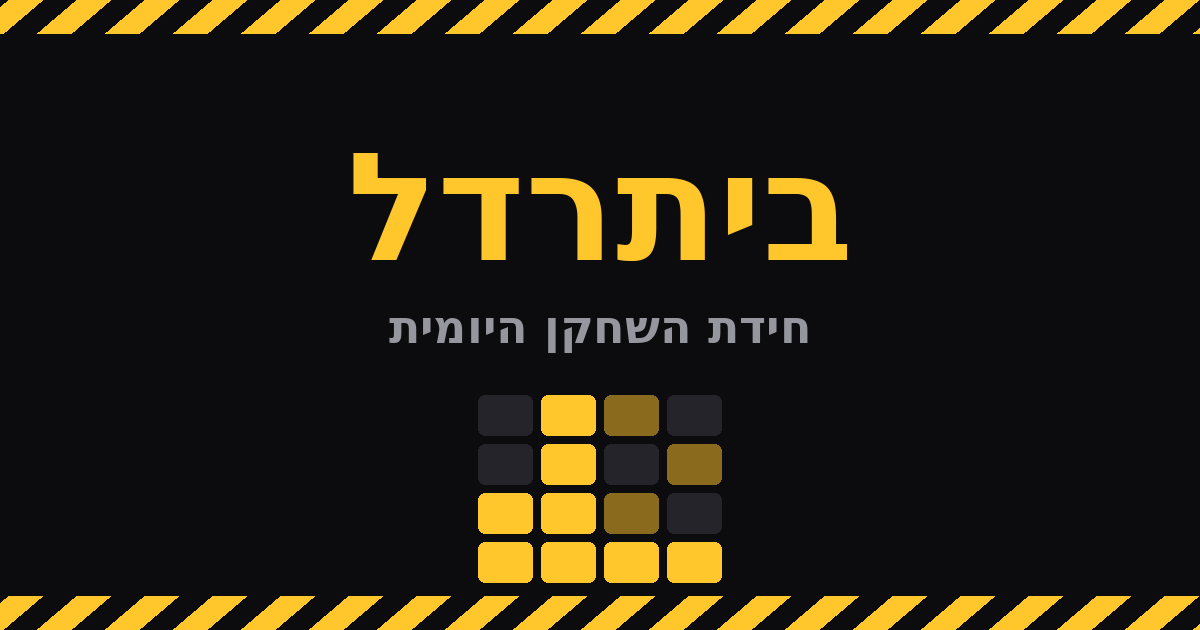
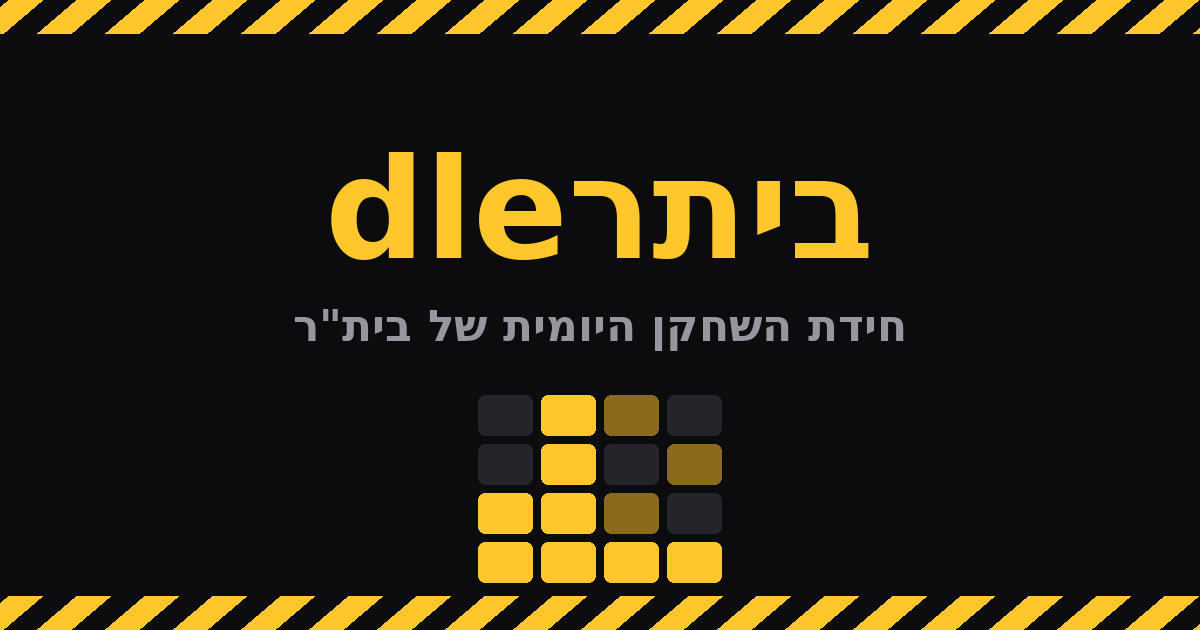
Add files via upload

Changed region(s): [[0.2775, 0.2413, 0.74, 0.4222], [0.2467, 0.4825, 0.7708, 0.573]]

diff --git a/index.html b/index.html
@@ -3,12 +3,12 @@
 <head>
 <meta charset="utf-8">
 <meta name="viewport" content="width=device-width, initial-scale=1, viewport-fit=cover">
-<title>ביתרדל · חידת השחקן היומית</title>
+<title>ביתרdle · חידת השחקן היומית</title>
 <meta name="description" content="שחקן בית&quot;ר אחד מסתורי. שמונה ניסיונות. חידה חדשה כל יום.">
 
 <!-- ===== תצוגה מקדימה בוואטסאפ — החלף את הדומיין ===== -->
 <meta property="og:type"        content="website">
-<meta property="og:title"       content="ביתרדל · חידת השחקן היומית">
+<meta property="og:title"       content="ביתרdle · חידת השחקן היומית">
 <meta property="og:description" content="שחקן בית&quot;ר אחד. שמונה ניסיונות. כמה ייקח לכם?">
 <meta property="og:url"         content="https://beitardle.up.railway.app/">
 <meta property="og:image"       content="https://beitardle.up.railway.app/og-beitardle.png">
@@ -23,7 +23,7 @@
 <link rel="icon" type="image/png" sizes="32x32" href="icon-32.png">
 <link rel="apple-touch-icon" href="icon-180.png">
 <link rel="manifest" href="manifest.json">
-<meta name="apple-mobile-web-app-title" content="ביתרדל">
+<meta name="apple-mobile-web-app-title" content="ביתרdle">
 <meta name="mobile-web-app-capable" content="yes">
 <meta name="apple-mobile-web-app-capable" content="yes">
 <meta name="apple-mobile-web-app-status-bar-style" content="black-translucent">
@@ -75,9 +75,11 @@ body{background:var(--ink);color:var(--text);font-family:'Heebo',system-ui,sans-
 .scarf.bottom{margin-top:32px}
 
 header{padding:20px 0 16px;text-align:center;position:relative}
-h1{font-family:'Suez One',Georgia,serif;font-size:clamp(34px,10vw,46px);line-height:1;margin:0;
+h1{unicode-bidi:isolate;font-family:'Suez One',Georgia,serif;font-size:clamp(34px,10vw,46px);line-height:1;margin:0;
   color:var(--yellow);letter-spacing:-.5px}
-.sub{margin:8px 0 0;font-size:13px;color:var(--dim);font-weight:500}
+.tag{margin:7px 0 0;font-size:12.5px;color:var(--dim);font-weight:500;letter-spacing:.01em}
+.sub{margin:6px 0 0;font-size:13px;color:var(--dim);font-weight:500}
+@media (min-width:640px){.tag{font-size:13.5px;margin-top:9px}}
 .sub b{color:var(--text);font-weight:700}
 #streak{position:absolute;top:22px;inset-inline-start:0;font-size:12px;color:var(--dim);
   background:var(--ink-2);border:1px solid var(--line);border-radius:20px;padding:4px 11px;display:none}
@@ -420,7 +422,8 @@ input.rc:focus{border-color:var(--yellow)}
     <div id="streak">רצף <b id="streakn">0</b></div>
     <button id="helpBtn" aria-label="איך משחקים">?</button>
     <button id="archBtn" aria-label="ארכיון חידות">⌛</button>
-    <h1><a href="./" aria-label="ביתרדל">ביתרדל</a></h1>
+    <h1><a href="./" aria-label="ביתרdle">ביתרdle</a></h1>
+    <p class="tag">חידת השחקן היומית של בית"ר</p>
     <p class="sub">חידה <b id="pnum">#1</b> · <b id="left">8</b> ניסיונות נותרו</p>
   </header>
 
@@ -568,7 +571,7 @@ input.rc:focus{border-color:var(--yellow)}
 
   <footer>
     <div class="who">
-      ביתרדל · פרויקט אוהדים · לא רשמי <span id="bld" style="opacity:.45"></span><br>
+      ביתרdle · פרויקט אוהדים · לא רשמי <span id="bld" style="opacity:.45"></span><br>
       <a href="mailto:techbynoam@gmail.com">techbynoam@gmail.com</a>
     </div>
     <a class="credit" href="https://techbynoam.up.railway.app/" target="_blank" rel="noopener">
@@ -696,7 +699,7 @@ const SHUFFLE_SEED = 20260825;
               קיימים בכל פונט. מלא=מדויק, חצי=קרוב, ריק=רחוק.
    "square" — ריבועים צבעוניים (יוניקוד 12, 2019). יפים יותר, אבל
               נשברים בווינדוס ישן ובאנדרואיד עתיק. */
-const BUILD = "b36";
+const BUILD = "b38";
 const SHARE_STYLE = "safe";
 
 /* כתובת ה-Web App מ-Apps Script. השאר ריק כדי לכבות איסוף לגמרי. */
@@ -889,7 +892,7 @@ const PLAYERS_RAW = [
 {he:"דריו פרננדס",pos:"MF",nat:"AR",born:1978,spells:[[2009,2009],[2012,2013]],seasons:3,titles:1,target:true},
 {he:"טל אלמשעלי",pos:"FW",nat:"IL",born:1989,spells:[[2009,2009],[2011,2012]],seasons:3,titles:1,target:true},
 {he:"משה אוחיון",pos:"MF",nat:"IL",born:1983,spells:[[2009,2009]],seasons:1,titles:1,target:false},
-{he:"עידן ורד",pos:"FW",nat:"IL",born:1989,spells:[[2009,2010],[2017,2021]],seasons:7,titles:1,target:true},
+{he:"עידן ורד",pos:"MF",nat:"IL",born:1989,spells:[[2009,2010],[2017,2021]],seasons:7,titles:1,target:true},
 {he:"אבי ריקן",pos:"MF",nat:"IL",born:1988,spells:[[2010,2013]],seasons:4,titles:0,target:true},
 {he:"אביתר ברוכיאן",pos:"MF",nat:"IL",born:1989,spells:[[2010,2013]],seasons:4,titles:0,target:true},
 {he:"ברק משה",pos:"MF",nat:"IL",born:1991,spells:[[2010,2013]],seasons:4,titles:0,target:true},
@@ -959,7 +962,7 @@ const PLAYERS_RAW = [
 {he:"אופק מרום",pos:"FW",nat:"IL",born:1997,spells:[[2016,2016]],seasons:1,titles:0,target:false},
 {he:"אורי מגבו",pos:"DF",nat:"IL",born:1987,spells:[[2016,2016],[2020,2021]],seasons:3,titles:0,target:true},
 {he:"איתי שכטר",pos:"FW",nat:"IL",born:1987,spells:[[2016,2018]],seasons:3,titles:0,target:true},
-{he:"אלעד גבאי",pos:"MF",nat:"IL",born:1985,spells:[[2016,2016]],seasons:1,titles:0,target:false},
+{he:"אלעד גבאי",pos:"DF",nat:"IL",born:1985,spells:[[2016,2016]],seasons:1,titles:0,target:false},
 {he:"ארסניו ולפורט",pos:"FW",nat:"NL",born:1992,spells:[[2016,2016]],seasons:1,titles:0,target:false},
 {he:"דובב גבאי",pos:"FW",nat:"IL",born:1987,spells:[[2016,2016]],seasons:1,titles:0,target:false},
 {he:"דן מורי",pos:"DF",nat:"IL",born:1988,spells:[[2016,2017]],seasons:2,titles:0,target:false},
@@ -1420,8 +1423,8 @@ function shareText(){
   const won = guesses[guesses.length-1].name === answer.name;
   const hs = hinted ? " (עם רמז)" : "";
   const head = won
-    ? `ביתרדל #${puzzleNo} · פיצחתי ב-${guesses.length} ${guesses.length===1?"ניחוש":"ניחושים"} מתוך ${MAX}${hs}`
-    : `ביתרדל #${puzzleNo} · לא פיצחתי (${MAX}/${MAX})${hs}`;
+    ? `ביתרdle #${puzzleNo} · פיצחתי ב-${guesses.length} ${guesses.length===1?"ניחוש":"ניחושים"} מתוך ${MAX}${hs}`
+    : `ביתרdle #${puzzleNo} · לא פיצחתי (${MAX}/${MAX})${hs}`;
   const key = `${M.hit} מדויק  ${M.near} קרוב  ${M.miss} רחוק`;
   return `${head}\n\n${grid}\n\n${key}\n${SITE_URL}`;
 }
@@ -2057,7 +2060,7 @@ async function startVersus(){
   $("#btnShare").addEventListener("click", async () => {
     const link = `${location.origin}${location.pathname}?room=${room}`;
     const txt =
-`⚫🟡 בואו לדו־קרב בביתרדל
+`⚫🟡 בואו לדו־קרב בביתרdle
 
 מי מזהה את שחקן בית"ר הכי מהר?
 הרמזים נחשפים לכולם יחד — והראשון שפוגע לוקח את הסיבוב.
